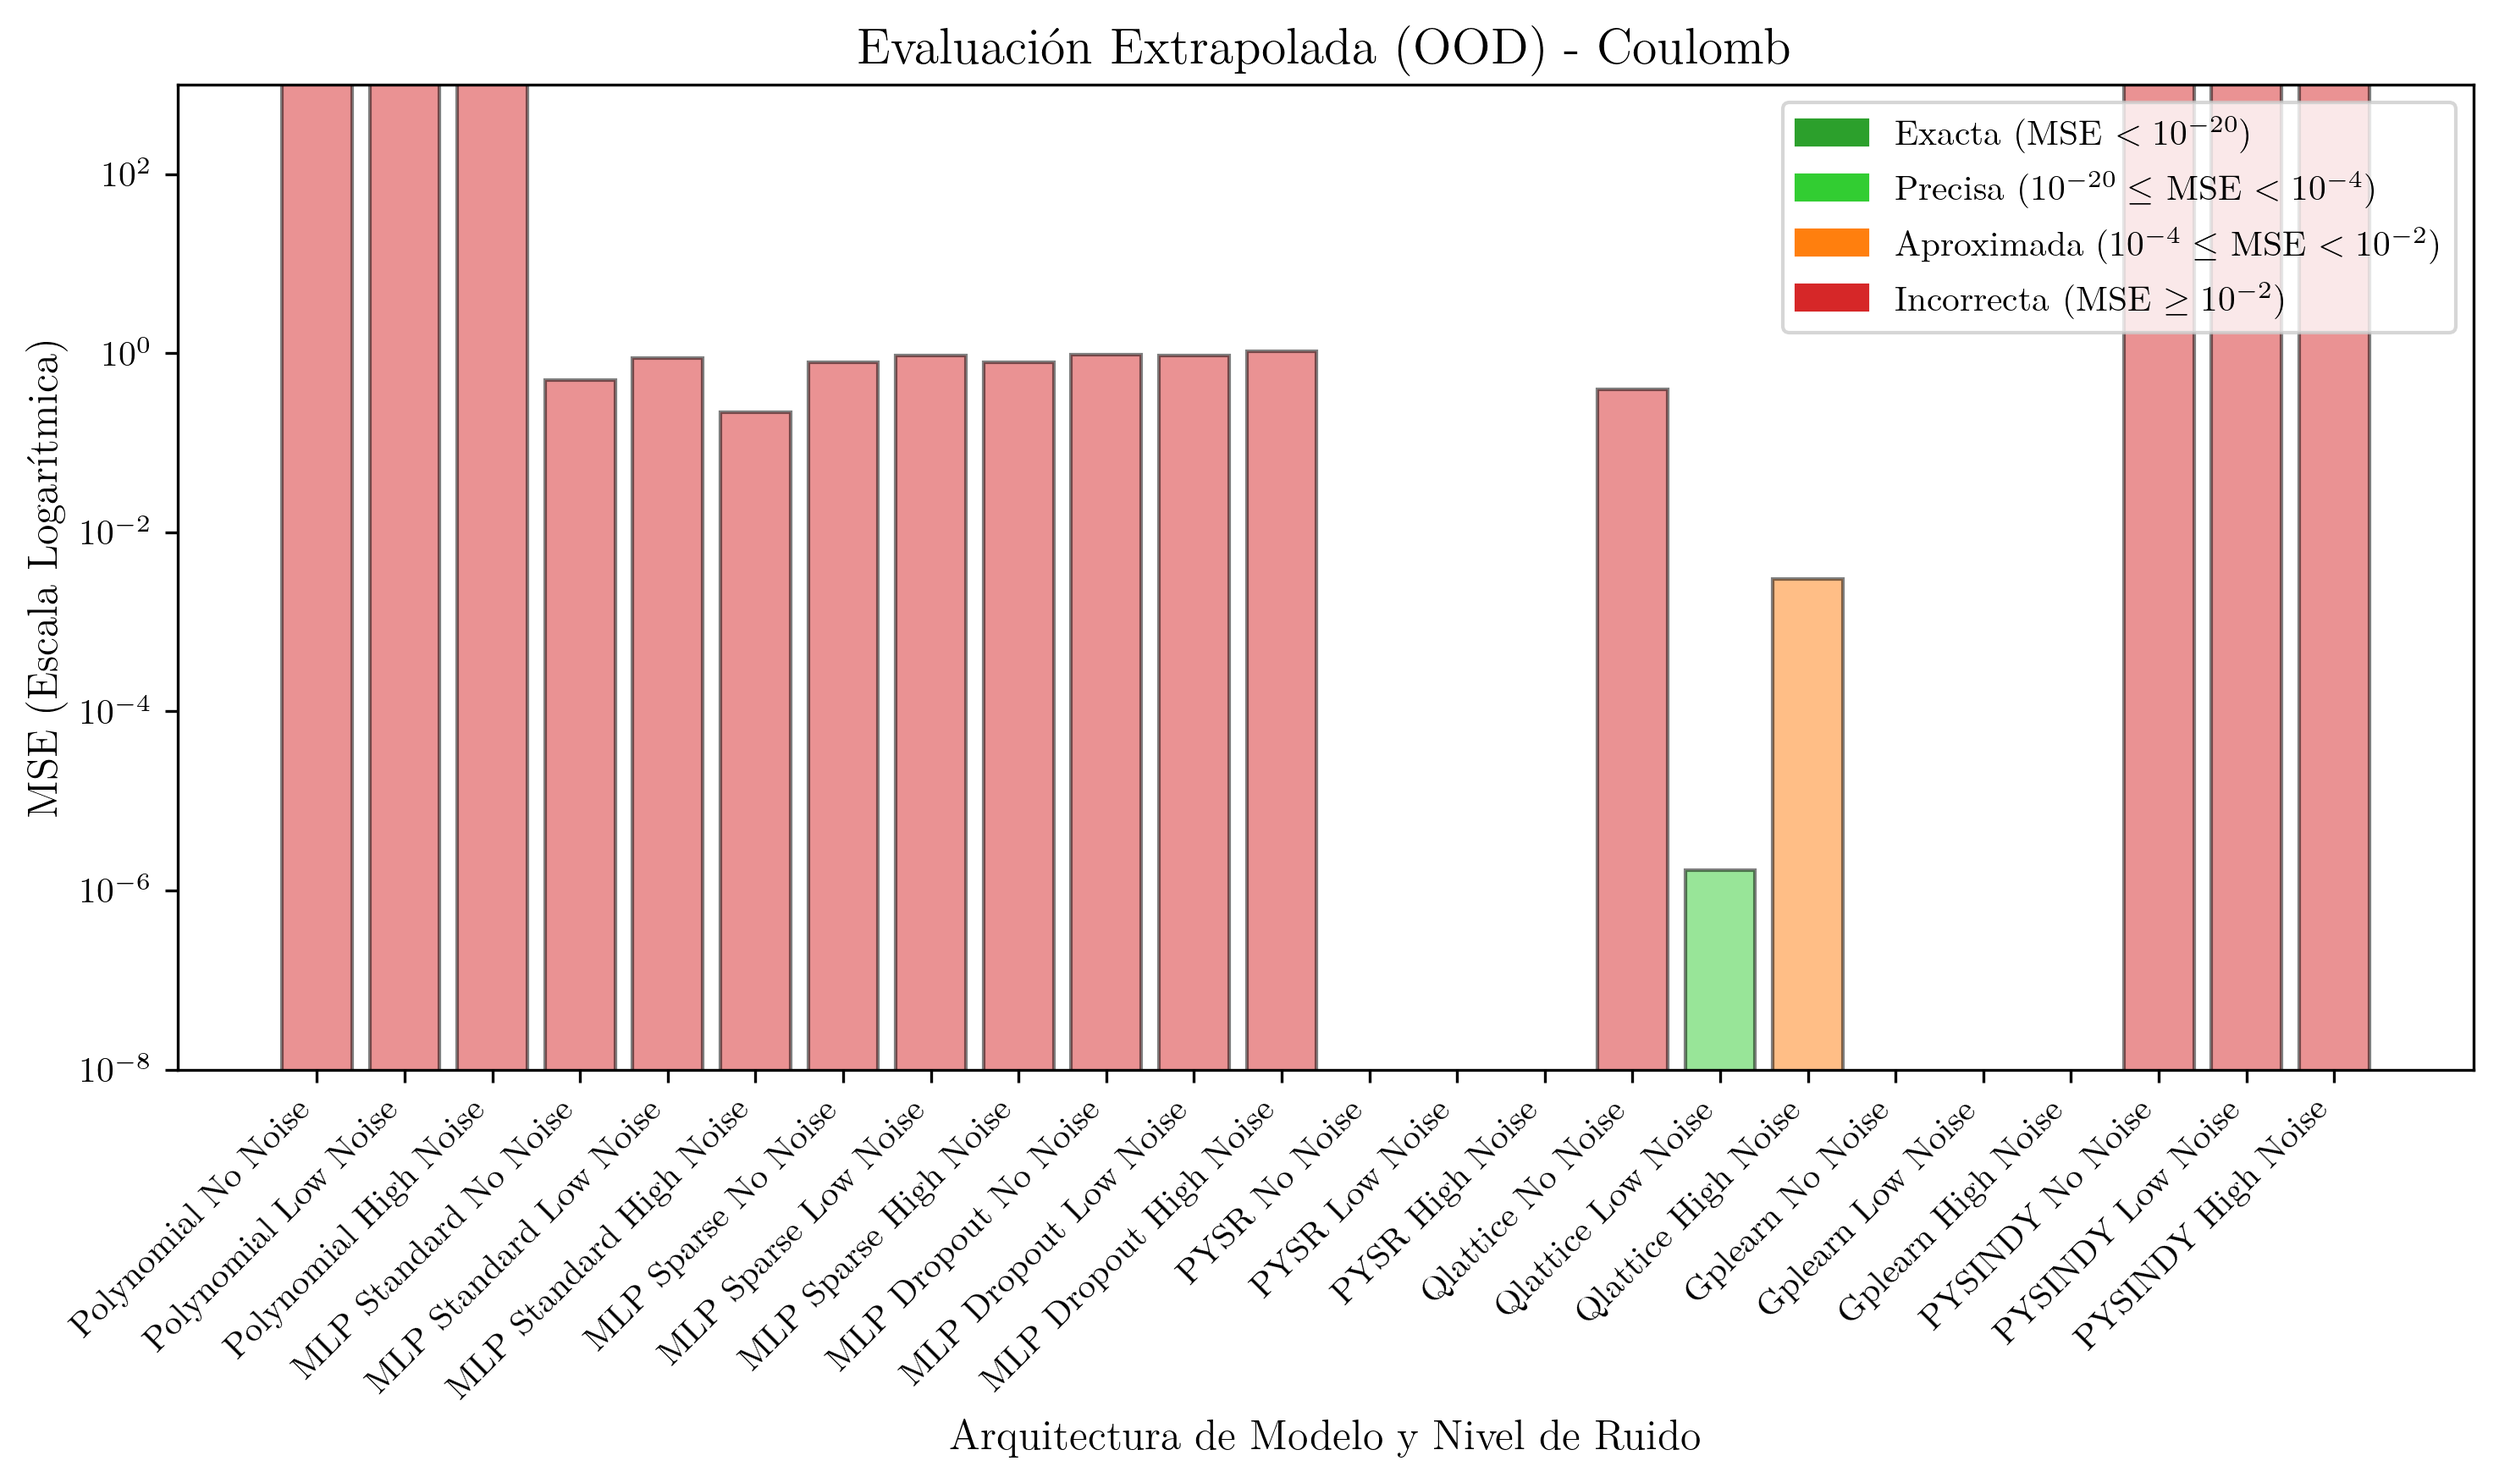
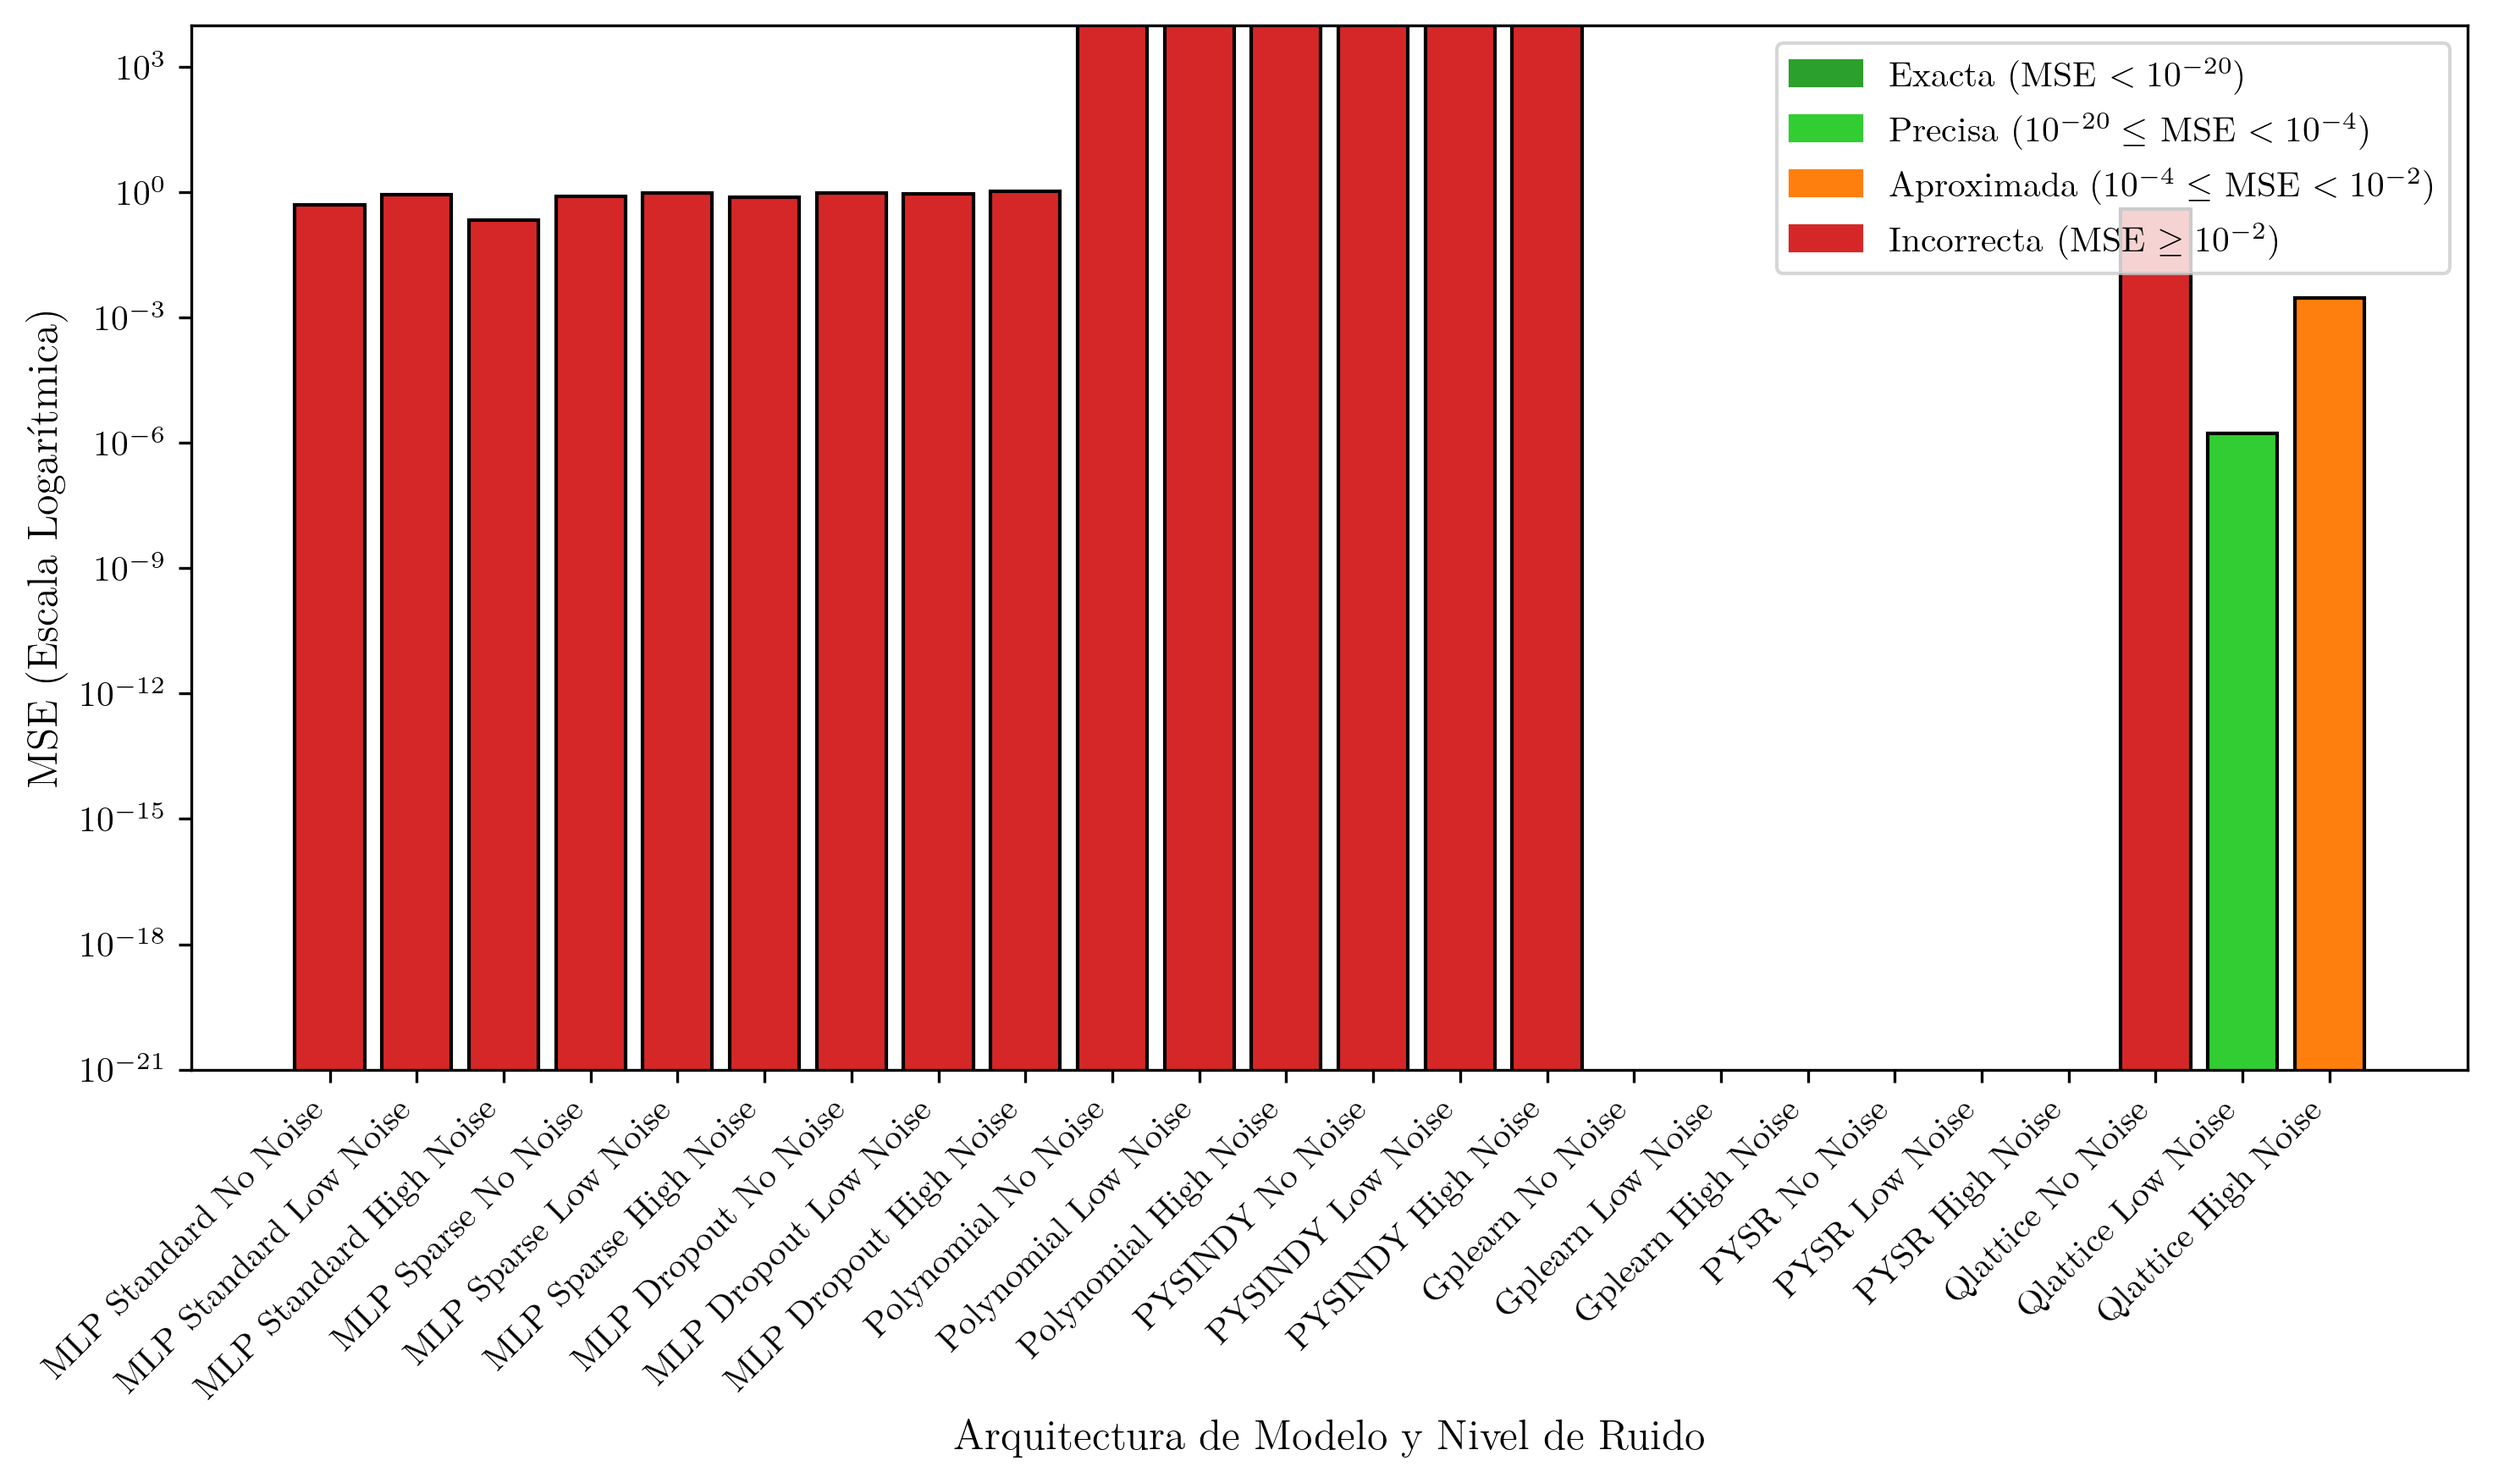
color code w/out alpha + increase range + new order

diff --git a/src/evaluate_model_ood.py b/src/evaluate_model_ood.py
@@ -285,14 +285,14 @@ if __name__ == "__main__":
     
     # Diccionarios de jerarquía para el eje X
     MODEL_ORDER = {
-        "Polynomial": 0,
-        "MLP_Standard": 1,
-        "MLP_Sparse": 2,
-        "MLP_Dropout": 3,
-        "PySR": 4,
-        "QLattice": 5,
-        "GPLearn": 6,
-        "PySINDy": 7
+        "MLP_Standard": 0,
+        "MLP_Sparse": 1,
+        "MLP_Dropout": 2,
+        "Polynomial": 3,
+        "PySINDy": 4,
+        "GPLearn": 5,
+        "PySR": 6,
+        "QLattice": 7,
     }
     
     NOISE_ORDER = {
@@ -350,14 +350,14 @@ if __name__ == "__main__":
             COLOR_EXACT if m <1e-20 else COLOR_BUENO if m < 1e-4 else COLOR_APPROX if m < 1e-2 else COLOR_INCORRECT
             for m in mses
         ]
-        ax.bar(formatted_models, mses, color=colors, edgecolor='black', alpha=0.5)            
+        ax.bar(formatted_models, mses, color=colors, edgecolor='black')            
 
 
         ax.set_yscale('log')
-        ax.set_ylim(1e-8, 1e3)  
+        ax.set_ylim(1e-21, 1e4)  
         ax.set_ylabel('MSE (Escala Logarítmica)')
         ax.set_xlabel('Arquitectura de Modelo y Nivel de Ruido')
-        ax.set_title(f'Evaluación Extrapolada (OOD) - {formatted_law}')
+        # ax.set_title(f'Evaluación Extrapolada (OOD) - {formatted_law}')
         
         # Formateo del eje categórico
         ax.set_xticks(range(len(formatted_models)))
